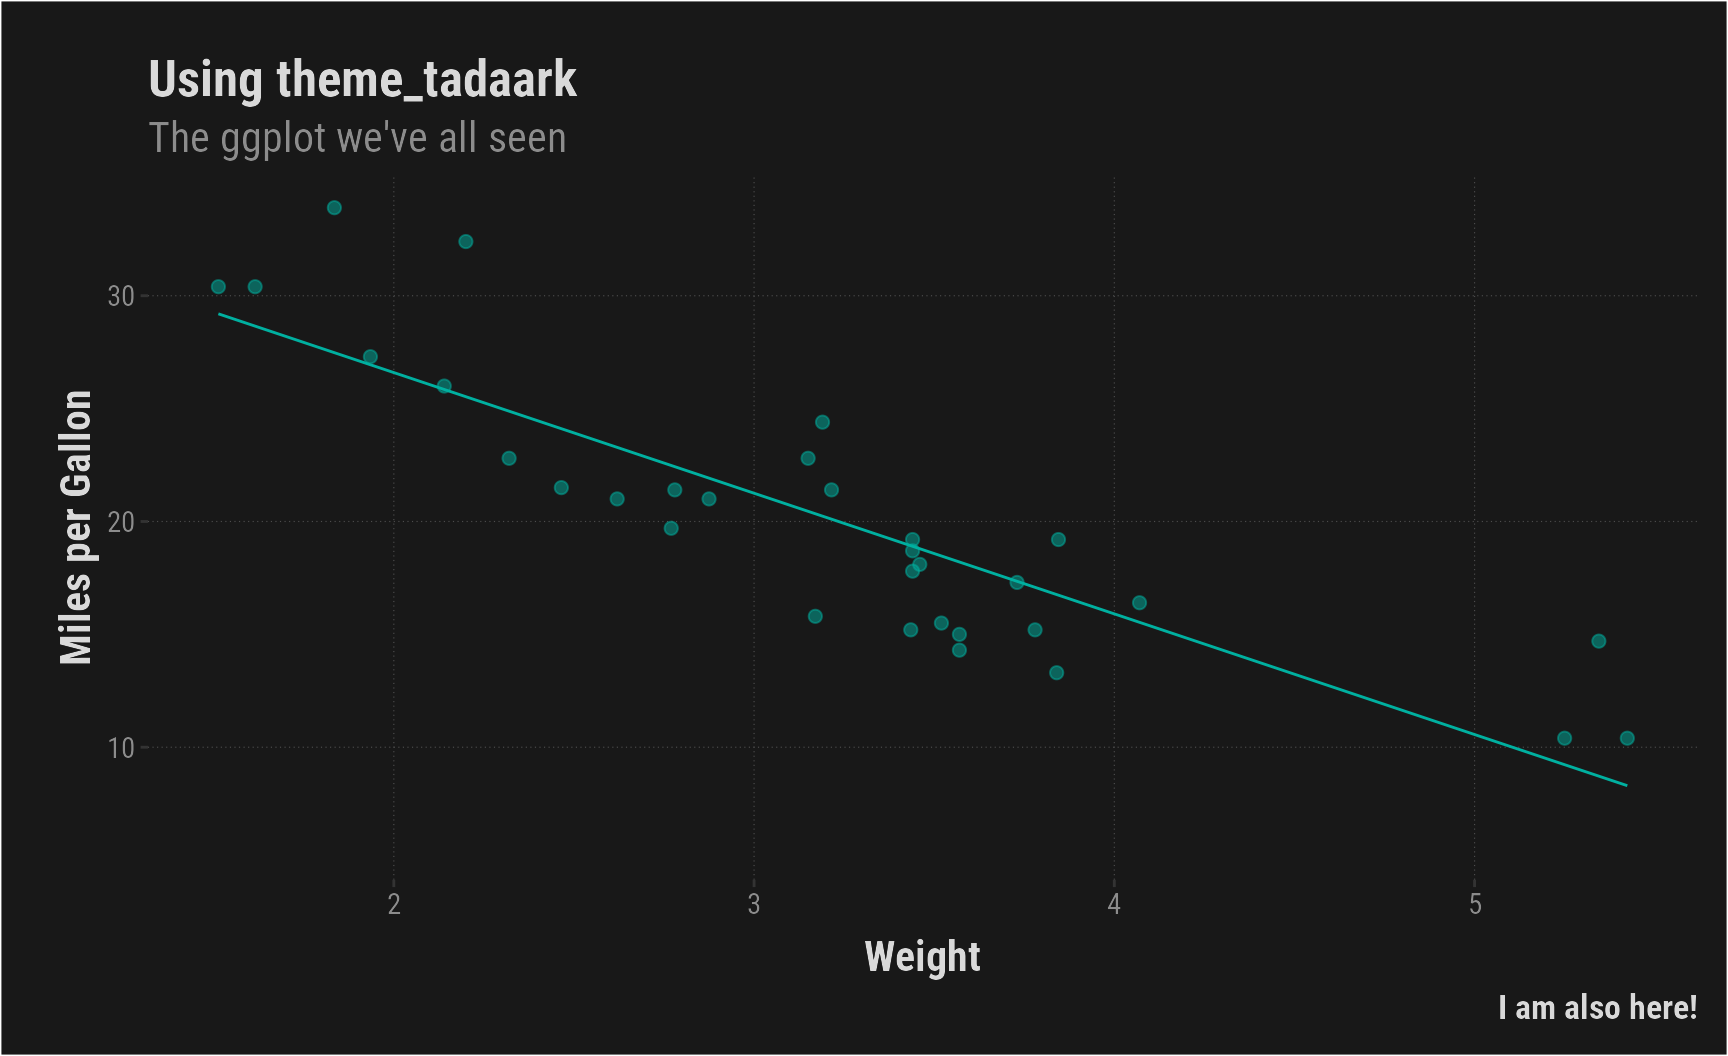
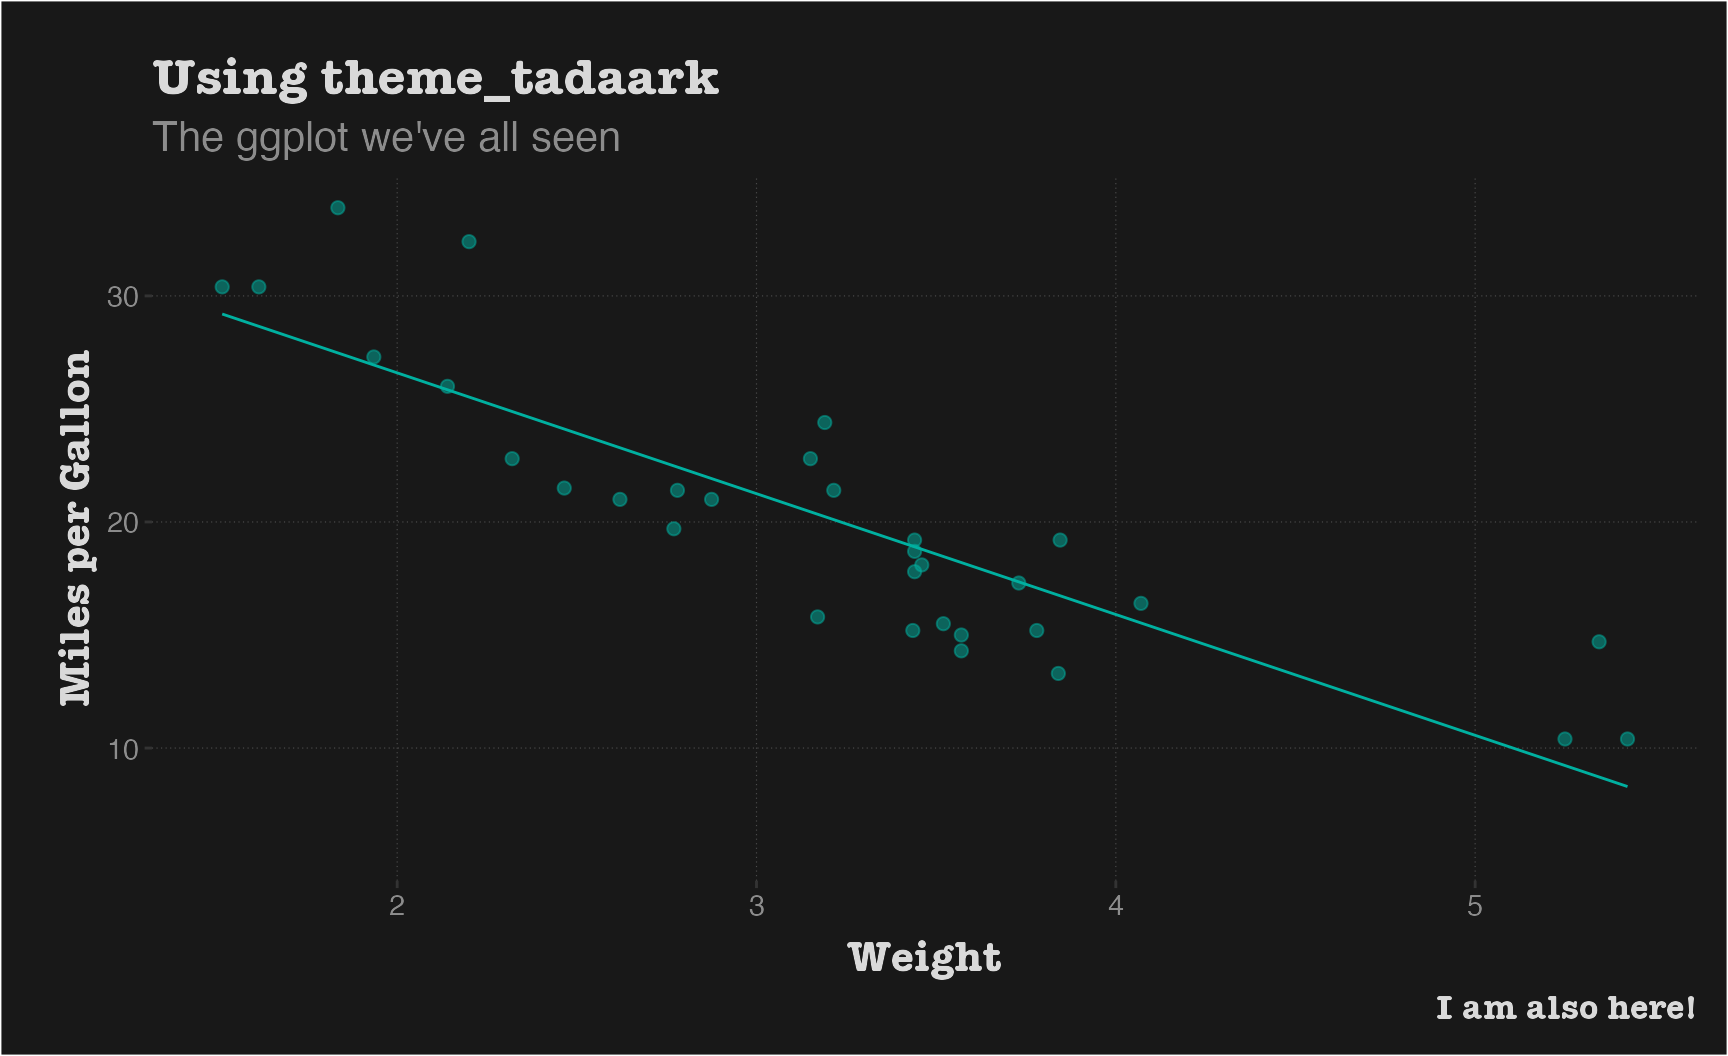
Built site for tadaathemes: 0.0.1@21fff16

diff --git a/reference/theme_ipsum_ss.html b/reference/theme_ipsum_ss.html
@@ -240,7 +240,7 @@ to register non-core fonts with the Windows graphics device.</p>
     <h2 class="hasAnchor" id="examples"><a class="anchor" href="#examples"></a>Examples</h2>
     <pre class="examples"><div class='input'><span class='kw'>if</span> <span class='op'>(</span><span class='cn'>FALSE</span><span class='op'>)</span> <span class='op'>{</span>
 <span class='kw'><a href='https://rdrr.io/r/base/library.html'>library</a></span><span class='op'>(</span><span class='va'><a href='http://ggplot2.tidyverse.org'>ggplot2</a></span><span class='op'>)</span>
-<span class='kw'><a href='https://rdrr.io/r/base/library.html'>library</a></span><span class='op'>(</span><span class='va'><a href='https://dplyr.tidyverse.org'>dplyr</a></span><span class='op'>)</span>
+<span class='kw'><a href='https://rdrr.io/r/base/library.html'>library</a></span><span class='op'>(</span><span class='va'>dplyr</span><span class='op'>)</span>
 
 <span class='co'># seminal scatterplot</span>
 <span class='fu'><a href='https://ggplot2.tidyverse.org/reference/ggplot.html'>ggplot</a></span><span class='op'>(</span><span class='va'>mtcars</span>, <span class='fu'><a href='https://ggplot2.tidyverse.org/reference/aes.html'>aes</a></span><span class='op'>(</span><span class='va'>mpg</span>, <span class='va'>wt</span><span class='op'>)</span><span class='op'>)</span> <span class='op'>+</span>
@@ -257,7 +257,7 @@ to register non-core fonts with the Windows graphics device.</p>
 
 <span class='fu'>update_geom_font_defaults</span><span class='op'>(</span>family <span class='op'>=</span> <span class='va'>font_ssp</span><span class='op'>)</span>
 
-<span class='fu'><a href='https://dplyr.tidyverse.org/reference/count.html'>count</a></span><span class='op'>(</span><span class='va'>mpg</span>, <span class='va'>class</span><span class='op'>)</span> <span class='op'>%&gt;%</span>
+<span class='fu'>count</span><span class='op'>(</span><span class='va'>mpg</span>, <span class='va'>class</span><span class='op'>)</span> <span class='op'>%&gt;%</span>
   <span class='fu'><a href='https://ggplot2.tidyverse.org/reference/ggplot.html'>ggplot</a></span><span class='op'>(</span><span class='fu'><a href='https://ggplot2.tidyverse.org/reference/aes.html'>aes</a></span><span class='op'>(</span><span class='va'>class</span>, <span class='va'>n</span><span class='op'>)</span><span class='op'>)</span> <span class='op'>+</span>
   <span class='fu'><a href='https://ggplot2.tidyverse.org/reference/geom_bar.html'>geom_col</a></span><span class='op'>(</span><span class='op'>)</span> <span class='op'>+</span>
   <span class='fu'><a href='https://ggplot2.tidyverse.org/reference/geom_text.html'>geom_text</a></span><span class='op'>(</span><span class='fu'><a href='https://ggplot2.tidyverse.org/reference/aes.html'>aes</a></span><span class='op'>(</span>label <span class='op'>=</span> <span class='va'>n</span><span class='op'>)</span>, nudge_y <span class='op'>=</span> <span class='fl'>3</span><span class='op'>)</span> <span class='op'>+</span>

diff --git a/news/index.html b/news/index.html
@@ -130,6 +130,7 @@
 <h1 class="page-header" data-toc-text="0.0.1">
 <a href="#tadaathemes-001" class="anchor"></a>tadaathemes 0.0.1</h1>
 <ul>
+<li>Add <code>theme_ipsum_ss</code>, a <code><a href="https://rdrr.io/pkg/hrbrthemes/man/theme_ipsum.html">hrbrthemes::theme_ipsum()</a></code> derivative using the <code>Source Sans Pro</code> font family, which is also (partially) included in <code>inst/fonts/source-sans-pro</code>. The font family name is “Source Sans 3” for some, though.</li>
 <li>Add colors and scale functions for <code>theme_trakt</code>.</li>
 <li>Bundle fonts Source Sans Pro and Lato (experimentally). The latter is used in <code><a href="../reference/theme_trakt.html">theme_trakt()</a></code>.</li>
 <li>Add WIP implementation of <code><a href="../reference/theme_trakt.html">theme_trakt()</a></code>

diff --git a/reference/theme_readthedown.html b/reference/theme_readthedown.html
@@ -130,7 +130,7 @@ dark grid lines." />
     </div>
 
     <div class="ref-description">
-    <p>A ggplot theme to fit <code><a href='https://rdrr.io/pkg/rmdformats/man/readthedown.html'>rmdformats::readthedown</a></code> in terms of background color and
+    <p>A ggplot theme to fit <code>rmdformats::readthedown</code> in terms of background color and
 dark grid lines.</p>
     </div>
 
@@ -156,7 +156,7 @@ headers, or <code>"Lato"</code> for the body style.</p></td>
     </tr>
     <tr>
       <th>bg</th>
-      <td><p>Background color, defaults to <code><a href='https://rdrr.io/pkg/rmdformats/man/readthedown.html'>rmdformats::readthedown</a></code>'s background,
+      <td><p>Background color, defaults to <code>rmdformats::readthedown</code>'s background,
 <code>#fcfcfc</code>.</p></td>
     </tr>
     <tr>

diff --git a/articles/tadaa-themes.html b/articles/tadaa-themes.html
@@ -79,12 +79,12 @@
 
       
 
-      </header><script src="tadaa-themes_files/header-attrs-2.3.10/header-attrs.js"></script><div class="row">
+      </header><script src="tadaa-themes_files/accessible-code-block-0.0.1/empty-anchor.js"></script><div class="row">
   <div class="col-md-9 contents">
     <div class="page-header toc-ignore">
       <h1 data-toc-skip>Tadaa, Themes!</h1>
             
-            <h4 class="date">2020-09-29 16:31:19</h4>
+            <h4 class="date">2020-09-29 15:02:16</h4>
       
       <small class="dont-index">Source: <a href="https://github.com/tadaadata/tadaathemes/blob/master/vignettes/tadaa-themes.Rmd"><code>vignettes/tadaa-themes.Rmd</code></a></small>
       <div class="hidden name"><code>tadaa-themes.Rmd</code></div>

diff --git a/articles/tadaa-themes_files/accessible-code-block-0.0.1/empty-anchor.js b/articles/tadaa-themes_files/accessible-code-block-0.0.1/empty-anchor.js
@@ -1,0 +1,15 @@
+// Hide empty <a> tag within highlighted CodeBlock for screen reader accessibility (see https://github.com/jgm/pandoc/issues/6352#issuecomment-626106786) -->
+// v0.0.1
+// Written by JooYoung Seo (jooyoung@psu.edu) and Atsushi Yasumoto on June 1st, 2020.
+
+document.addEventListener('DOMContentLoaded', function() {
+  const codeList = document.getElementsByClassName("sourceCode");
+  for (var i = 0; i < codeList.length; i++) {
+    var linkList = codeList[i].getElementsByTagName('a');
+    for (var j = 0; j < linkList.length; j++) {
+      if (linkList[j].innerHTML === "") {
+        linkList[j].setAttribute('aria-hidden', 'true');
+      }
+    }
+  }
+});
